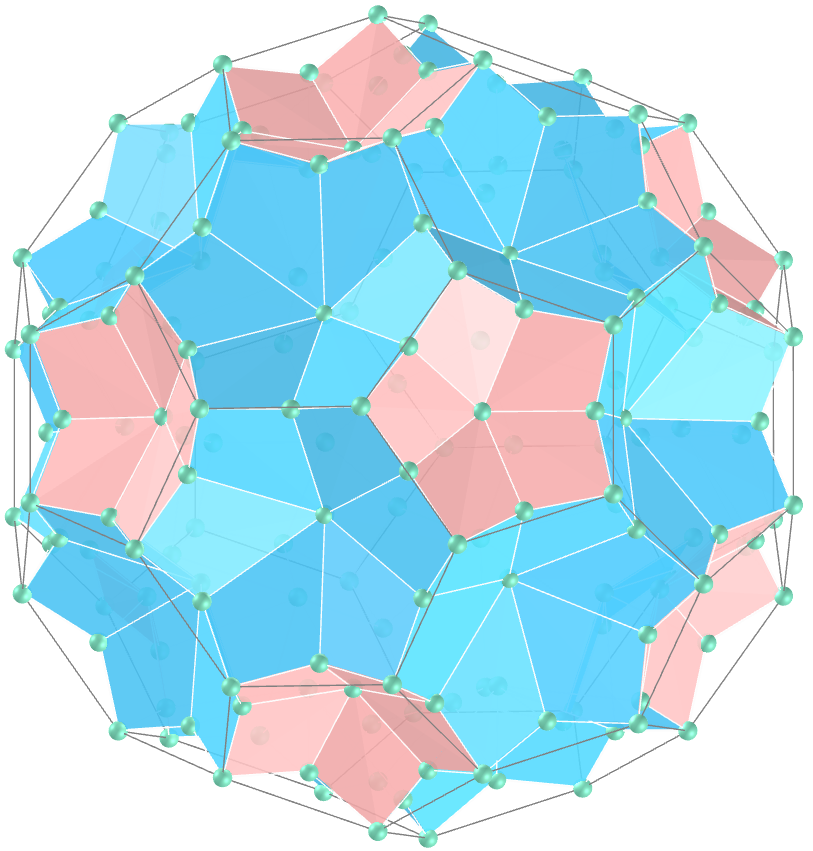
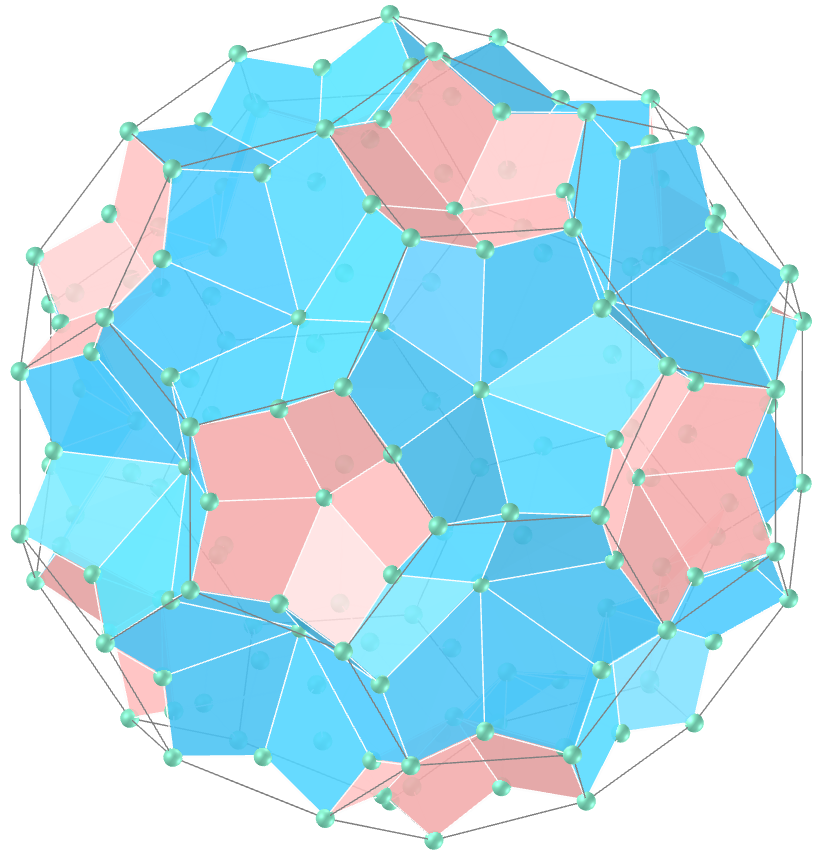
update

diff --git a/kites/vr/Truncated_Icosidodecahedron.htm b/kites/vr/Truncated_Icosidodecahedron.htm
@@ -158,7 +158,7 @@
 			<a-sphere mixin='esfera' position='1.99040213 1.31600213 2.407204259'></a-sphere>
 			<a-sphere mixin='esfera' position='1.262934043 1.31600213 2.856804259'></a-sphere>
 			<a-sphere mixin='esfera' position='0.6744 0.813334043 3.220538302'></a-sphere>
-			<a-sphere mixin='esfera' position='0.841373807 -0 1.36137142'></a-sphere>
+			<a-sphere mixin='esfera' position='0.8321441147 -0 1.3464374641'></a-sphere>
 			<a-sphere mixin='esfera' position='0.6744 0.813334043 3.220538302'></a-sphere>
 			<a-sphere mixin='esfera' position='0.6744 1.54080213 2.942670216'></a-sphere>
 			<a-sphere mixin='esfera' position='0 1.904536173 2.803736173'></a-sphere>
@@ -181,7 +181,7 @@
 			<a-sphere mixin='esfera' position='1.262934043 -1.31600213 -2.856804259'></a-sphere>
 			<a-sphere mixin='esfera' position='0.6744 -0.813334043 -3.220538302'></a-sphere>
 			<a-sphere mixin='esfera' position='0.4496 0 -3.359472346'></a-sphere>
-			<a-sphere mixin='esfera' position='0.841373807 0 -1.36137142'></a-sphere>
+			<a-sphere mixin='esfera' position='0.8321441147 0 -1.3464374641'></a-sphere>
 			<a-sphere mixin='esfera' position='0 0.4496 -3.359472346'></a-sphere>
 			<a-sphere mixin='esfera' position='-0.6744 0.813334043 -3.220538302'></a-sphere>
 			<a-sphere mixin='esfera' position='-0.6744 1.54080213 -2.942670216'></a-sphere>
@@ -209,7 +209,7 @@
 			<a-sphere mixin='esfera' position='-1.262934043 -1.31600213 2.856804259'></a-sphere>
 			<a-sphere mixin='esfera' position='-0.6744 -0.813334043 3.220538302'></a-sphere>
 			<a-sphere mixin='esfera' position='-0.4496 0 3.359472346'></a-sphere>
-			<a-sphere mixin='esfera' position='-0.841373807 0 1.36137142'></a-sphere>
+			<a-sphere mixin='esfera' position='-0.8321441147 0 1.3464374641'></a-sphere>
 			<a-sphere mixin='esfera' position='-0.4496 0 -3.359472346'></a-sphere>
 			<a-sphere mixin='esfera' position='-0.6744 -0.813334043 -3.220538302'></a-sphere>
 			<a-sphere mixin='esfera' position='-1.262934043 -1.31600213 -2.856804259'></a-sphere>
@@ -220,7 +220,7 @@
 			<a-sphere mixin='esfera' position='-1.99040213 1.31600213 -2.407204259'></a-sphere>
 			<a-sphere mixin='esfera' position='-1.262934043 1.31600213 -2.856804259'></a-sphere>
 			<a-sphere mixin='esfera' position='-0.6744 0.813334043 -3.220538302'></a-sphere>
-			<a-sphere mixin='esfera' position='-0.841373807 -0 -1.36137142'></a-sphere>
+			<a-sphere mixin='esfera' position='-0.8321441147 -0 -1.3464374641'></a-sphere>
 			<a-sphere mixin='esfera' position='3.359472346 0.4496 0'></a-sphere>
 			<a-sphere mixin='esfera' position='3.220538302 0.6744 -0.813334043'></a-sphere>
 			<a-sphere mixin='esfera' position='2.856804259 1.262934043 -1.31600213'></a-sphere>
@@ -231,7 +231,7 @@
 			<a-sphere mixin='esfera' position='2.407204259 1.99040213 1.31600213'></a-sphere>
 			<a-sphere mixin='esfera' position='2.856804259 1.262934043 1.31600213'></a-sphere>
 			<a-sphere mixin='esfera' position='3.220538302 0.6744 0.813334043'></a-sphere>
-			<a-sphere mixin='esfera' position='1.36137142 0.841373807 -0'></a-sphere>
+			<a-sphere mixin='esfera' position='1.3464374641 0.8321441147 -0'></a-sphere>
 			<a-sphere mixin='esfera' position='3.220538302 -0.6744 0.813334043'></a-sphere>
 			<a-sphere mixin='esfera' position='2.856804259 -1.262934043 1.31600213'></a-sphere>
 			<a-sphere mixin='esfera' position='2.407204259 -1.99040213 1.31600213'></a-sphere>
@@ -242,7 +242,7 @@
 			<a-sphere mixin='esfera' position='2.856804259 -1.262934043 -1.31600213'></a-sphere>
 			<a-sphere mixin='esfera' position='3.220538302 -0.6744 -0.813334043'></a-sphere>
 			<a-sphere mixin='esfera' position='3.359472346 -0.4496 0'></a-sphere>
-			<a-sphere mixin='esfera' position='1.36137142 -0.841373807 0'></a-sphere>
+			<a-sphere mixin='esfera' position='1.3464374641 -0.8321441147 0'></a-sphere>
 			<a-sphere mixin='esfera' position='-3.220538302 0.6744 0.813334043'></a-sphere>
 			<a-sphere mixin='esfera' position='-2.856804259 1.262934043 1.31600213'></a-sphere>
 			<a-sphere mixin='esfera' position='-2.407204259 1.99040213 1.31600213'></a-sphere>
@@ -253,7 +253,7 @@
 			<a-sphere mixin='esfera' position='-2.856804259 1.262934043 -1.31600213'></a-sphere>
 			<a-sphere mixin='esfera' position='-3.220538302 0.6744 -0.813334043'></a-sphere>
 			<a-sphere mixin='esfera' position='-3.359472346 0.4496 0'></a-sphere>
-			<a-sphere mixin='esfera' position='-1.36137142 0.841373807 0'></a-sphere>
+			<a-sphere mixin='esfera' position='-1.3464374641 0.8321441147 0'></a-sphere>
 			<a-sphere mixin='esfera' position='-3.359472346 -0.4496 0'></a-sphere>
 			<a-sphere mixin='esfera' position='-3.220538302 -0.6744 -0.813334043'></a-sphere>
 			<a-sphere mixin='esfera' position='-2.856804259 -1.262934043 -1.31600213'></a-sphere>
@@ -264,7 +264,7 @@
 			<a-sphere mixin='esfera' position='-2.407204259 -1.99040213 1.31600213'></a-sphere>
 			<a-sphere mixin='esfera' position='-2.856804259 -1.262934043 1.31600213'></a-sphere>
 			<a-sphere mixin='esfera' position='-3.220538302 -0.6744 0.813334043'></a-sphere>
-			<a-sphere mixin='esfera' position='-1.36137142 -0.841373807 -0'></a-sphere>
+			<a-sphere mixin='esfera' position='-1.3464374641 -0.8321441147 -0'></a-sphere>
 			<a-sphere mixin='esfera' position='0 3.359472346 0.4496'></a-sphere>
 			<a-sphere mixin='esfera' position='-0.813334043 3.220538302 0.6744'></a-sphere>
 			<a-sphere mixin='esfera' position='-1.31600213 2.856804259 1.262934043'></a-sphere>
@@ -275,7 +275,7 @@
 			<a-sphere mixin='esfera' position='1.31600213 2.407204259 1.99040213'></a-sphere>
 			<a-sphere mixin='esfera' position='1.31600213 2.856804259 1.262934043'></a-sphere>
 			<a-sphere mixin='esfera' position='0.813334043 3.220538302 0.6744'></a-sphere>
-			<a-sphere mixin='esfera' position='-0 1.36137142 0.841373807'></a-sphere>
+			<a-sphere mixin='esfera' position='-0 1.3464374641 0.8321441147'></a-sphere>
 			<a-sphere mixin='esfera' position='0.813334043 3.220538302 -0.6744'></a-sphere>
 			<a-sphere mixin='esfera' position='1.31600213 2.856804259 -1.262934043'></a-sphere>
 			<a-sphere mixin='esfera' position='1.31600213 2.407204259 -1.99040213'></a-sphere>
@@ -286,7 +286,7 @@
 			<a-sphere mixin='esfera' position='-1.31600213 2.856804259 -1.262934043'></a-sphere>
 			<a-sphere mixin='esfera' position='-0.813334043 3.220538302 -0.6744'></a-sphere>
 			<a-sphere mixin='esfera' position='0 3.359472346 -0.4496'></a-sphere>
-			<a-sphere mixin='esfera' position='0 1.36137142 -0.841373807'></a-sphere>
+			<a-sphere mixin='esfera' position='0 1.3464374641 -0.8321441147'></a-sphere>
 			<a-sphere mixin='esfera' position='0.813334043 -3.220538302 0.6744'></a-sphere>
 			<a-sphere mixin='esfera' position='1.31600213 -2.856804259 1.262934043'></a-sphere>
 			<a-sphere mixin='esfera' position='1.31600213 -2.407204259 1.99040213'></a-sphere>
@@ -297,7 +297,7 @@
 			<a-sphere mixin='esfera' position='-1.31600213 -2.856804259 1.262934043'></a-sphere>
 			<a-sphere mixin='esfera' position='-0.813334043 -3.220538302 0.6744'></a-sphere>
 			<a-sphere mixin='esfera' position='0 -3.359472346 0.4496'></a-sphere>
-			<a-sphere mixin='esfera' position='0 -1.36137142 0.841373807'></a-sphere>
+			<a-sphere mixin='esfera' position='0 -1.3464374641 0.8321441147'></a-sphere>
 			<a-sphere mixin='esfera' position='0 -3.359472346 -0.4496'></a-sphere>
 			<a-sphere mixin='esfera' position='-0.813334043 -3.220538302 -0.6744'></a-sphere>
 			<a-sphere mixin='esfera' position='-1.31600213 -2.856804259 -1.262934043'></a-sphere>
@@ -308,7 +308,7 @@
 			<a-sphere mixin='esfera' position='1.31600213 -2.407204259 -1.99040213'></a-sphere>
 			<a-sphere mixin='esfera' position='1.31600213 -2.856804259 -1.262934043'></a-sphere>
 			<a-sphere mixin='esfera' position='0.813334043 -3.220538302 -0.6744'></a-sphere>
-			<a-sphere mixin='esfera' position='-0 -1.36137142 -0.841373807'></a-sphere>
+			<a-sphere mixin='esfera' position='-0 -1.3464374641 -0.8321441147'></a-sphere>
 			<a-sphere mixin='esfera' position='0 -0.4496 3.359472346'></a-sphere>
 			<a-sphere mixin='esfera' position='-0.6744 -0.813334043 3.220538302'></a-sphere>
 			<a-sphere mixin='esfera' position='-0.6744 -1.54080213 2.942670216'></a-sphere>
@@ -385,56 +385,56 @@
 			<a-sphere mixin='esfera' position='1.818670216 2.493070216 1.401868086'></a-sphere>
 			<a-sphere mixin='esfera' position='1.31600213 2.407204259 1.99040213'></a-sphere>
 			<a-sphere mixin='esfera' position='1.401868086 1.818670216 2.493070216'></a-sphere>
-			<a-sphere mixin='esfera' position='1.471610023 1.471610023 1.471610023'></a-sphere>
+			<a-sphere mixin='esfera' position='1.462328143 1.462328143 1.462328143'></a-sphere>
 			<a-sphere mixin='esfera' position='1.401868086 1.818670216 -2.493070216'></a-sphere>
 			<a-sphere mixin='esfera' position='1.31600213 2.407204259 -1.99040213'></a-sphere>
 			<a-sphere mixin='esfera' position='1.818670216 2.493070216 -1.401868086'></a-sphere>
 			<a-sphere mixin='esfera' position='2.407204259 1.99040213 -1.31600213'></a-sphere>
 			<a-sphere mixin='esfera' position='2.493070216 1.401868086 -1.818670216'></a-sphere>
 			<a-sphere mixin='esfera' position='1.99040213 1.31600213 -2.407204259'></a-sphere>
-			<a-sphere mixin='esfera' position='1.471610023 1.471610023 -1.471610023'></a-sphere>
+			<a-sphere mixin='esfera' position='1.462328143 1.462328143 -1.462328143'></a-sphere>
 			<a-sphere mixin='esfera' position='1.401868086 -1.818670216 2.493070216'></a-sphere>
 			<a-sphere mixin='esfera' position='1.31600213 -2.407204259 1.99040213'></a-sphere>
 			<a-sphere mixin='esfera' position='1.818670216 -2.493070216 1.401868086'></a-sphere>
 			<a-sphere mixin='esfera' position='2.407204259 -1.99040213 1.31600213'></a-sphere>
 			<a-sphere mixin='esfera' position='2.493070216 -1.401868086 1.818670216'></a-sphere>
 			<a-sphere mixin='esfera' position='1.99040213 -1.31600213 2.407204259'></a-sphere>
-			<a-sphere mixin='esfera' position='1.471610023 -1.471610023 1.471610023'></a-sphere>
+			<a-sphere mixin='esfera' position='1.462328143 -1.462328143 1.462328143'></a-sphere>
 			<a-sphere mixin='esfera' position='1.99040213 -1.31600213 -2.407204259'></a-sphere>
 			<a-sphere mixin='esfera' position='2.493070216 -1.401868086 -1.818670216'></a-sphere>
 			<a-sphere mixin='esfera' position='2.407204259 -1.99040213 -1.31600213'></a-sphere>
 			<a-sphere mixin='esfera' position='1.818670216 -2.493070216 -1.401868086'></a-sphere>
 			<a-sphere mixin='esfera' position='1.31600213 -2.407204259 -1.99040213'></a-sphere>
 			<a-sphere mixin='esfera' position='1.401868086 -1.818670216 -2.493070216'></a-sphere>
-			<a-sphere mixin='esfera' position='1.471610023 -1.471610023 -1.471610023'></a-sphere>
+			<a-sphere mixin='esfera' position='1.462328143 -1.462328143 -1.462328143'></a-sphere>
 			<a-sphere mixin='esfera' position='-1.401868086 1.818670216 2.493070216'></a-sphere>
 			<a-sphere mixin='esfera' position='-1.31600213 2.407204259 1.99040213'></a-sphere>
 			<a-sphere mixin='esfera' position='-1.818670216 2.493070216 1.401868086'></a-sphere>
 			<a-sphere mixin='esfera' position='-2.407204259 1.99040213 1.31600213'></a-sphere>
 			<a-sphere mixin='esfera' position='-2.493070216 1.401868086 1.818670216'></a-sphere>
 			<a-sphere mixin='esfera' position='-1.99040213 1.31600213 2.407204259'></a-sphere>
-			<a-sphere mixin='esfera' position='-1.471610023 1.471610023 1.471610023'></a-sphere>
+			<a-sphere mixin='esfera' position='-1.462328143 1.462328143 1.462328143'></a-sphere>
 			<a-sphere mixin='esfera' position='-1.99040213 1.31600213 -2.407204259'></a-sphere>
 			<a-sphere mixin='esfera' position='-2.493070216 1.401868086 -1.818670216'></a-sphere>
 			<a-sphere mixin='esfera' position='-2.407204259 1.99040213 -1.31600213'></a-sphere>
 			<a-sphere mixin='esfera' position='-1.818670216 2.493070216 -1.401868086'></a-sphere>
 			<a-sphere mixin='esfera' position='-1.31600213 2.407204259 -1.99040213'></a-sphere>
 			<a-sphere mixin='esfera' position='-1.401868086 1.818670216 -2.493070216'></a-sphere>
-			<a-sphere mixin='esfera' position='-1.471610023 1.471610023 -1.471610023'></a-sphere>
+			<a-sphere mixin='esfera' position='-1.462328143 1.462328143 -1.462328143'></a-sphere>
 			<a-sphere mixin='esfera' position='-1.99040213 -1.31600213 2.407204259'></a-sphere>
 			<a-sphere mixin='esfera' position='-2.493070216 -1.401868086 1.818670216'></a-sphere>
 			<a-sphere mixin='esfera' position='-2.407204259 -1.99040213 1.31600213'></a-sphere>
 			<a-sphere mixin='esfera' position='-1.818670216 -2.493070216 1.401868086'></a-sphere>
 			<a-sphere mixin='esfera' position='-1.31600213 -2.407204259 1.99040213'></a-sphere>
 			<a-sphere mixin='esfera' position='-1.401868086 -1.818670216 2.493070216'></a-sphere>
-			<a-sphere mixin='esfera' position='-1.471610023 -1.471610023 1.471610023'></a-sphere>
+			<a-sphere mixin='esfera' position='-1.462328143 -1.462328143 1.462328143'></a-sphere>
 			<a-sphere mixin='esfera' position='-1.401868086 -1.818670216 -2.493070216'></a-sphere>
 			<a-sphere mixin='esfera' position='-1.31600213 -2.407204259 -1.99040213'></a-sphere>
 			<a-sphere mixin='esfera' position='-1.818670216 -2.493070216 -1.401868086'></a-sphere>
 			<a-sphere mixin='esfera' position='-2.407204259 -1.99040213 -1.31600213'></a-sphere>
 			<a-sphere mixin='esfera' position='-2.493070216 -1.401868086 -1.818670216'></a-sphere>
 			<a-sphere mixin='esfera' position='-1.99040213 -1.31600213 -2.407204259'></a-sphere>
-			<a-sphere mixin='esfera' position='-1.471610023 -1.471610023 -1.471610023'></a-sphere>
+			<a-sphere mixin='esfera' position='-1.462328143 -1.462328143 -1.462328143'></a-sphere>
 			<a-sphere mixin='esfera' position='-3.359472346 0.4496 0'></a-sphere>
 			<a-sphere mixin='esfera' position='-3.359472346 0 -0.4496'></a-sphere>
 			<a-sphere mixin='esfera' position='-3.359472346 -0.4496 0'></a-sphere>
@@ -454,122 +454,122 @@
 			<a-sphere mixin='esfera' position='1.401868086 1.818670216 2.493070216'></a-sphere>
 			<a-sphere mixin='esfera' position='0.813334043 2.043470216 2.578936173'></a-sphere>
 			<a-sphere mixin='esfera' position='0.6744 1.54080213 2.942670216'></a-sphere>
-			<a-sphere mixin='esfera' position='0.944618855 1.528425419 2.473044274'></a-sphere>
+			<a-sphere mixin='esfera' position='0.9430723507 1.5259231224 2.4689954731'></a-sphere>
 			<a-sphere mixin='esfera' position='0.6744 1.54080213 -2.942670216'></a-sphere>
 			<a-sphere mixin='esfera' position='0.813334043 2.043470216 -2.578936173'></a-sphere>
 			<a-sphere mixin='esfera' position='1.401868086 1.818670216 -2.493070216'></a-sphere>
 			<a-sphere mixin='esfera' position='1.262934043 1.31600213 -2.856804259'></a-sphere>
-			<a-sphere mixin='esfera' position='0.944618855 1.528425419 -2.473044274'></a-sphere>
+			<a-sphere mixin='esfera' position='0.9430723507 1.5259231224 -2.4689954731'></a-sphere>
 			<a-sphere mixin='esfera' position='0.6744 -1.54080213 2.942670216'></a-sphere>
 			<a-sphere mixin='esfera' position='0.813334043 -2.043470216 2.578936173'></a-sphere>
 			<a-sphere mixin='esfera' position='1.401868086 -1.818670216 2.493070216'></a-sphere>
 			<a-sphere mixin='esfera' position='1.262934043 -1.31600213 2.856804259'></a-sphere>
-			<a-sphere mixin='esfera' position='0.944618855 -1.528425419 2.473044274'></a-sphere>
+			<a-sphere mixin='esfera' position='0.9430723507 -1.5259231224 2.4689954731'></a-sphere>
 			<a-sphere mixin='esfera' position='1.262934043 -1.31600213 -2.856804259'></a-sphere>
 			<a-sphere mixin='esfera' position='1.401868086 -1.818670216 -2.493070216'></a-sphere>
 			<a-sphere mixin='esfera' position='0.813334043 -2.043470216 -2.578936173'></a-sphere>
 			<a-sphere mixin='esfera' position='0.6744 -1.54080213 -2.942670216'></a-sphere>
-			<a-sphere mixin='esfera' position='0.944618855 -1.528425419 -2.473044274'></a-sphere>
+			<a-sphere mixin='esfera' position='0.9430723507 -1.5259231224 -2.4689954731'></a-sphere>
 			<a-sphere mixin='esfera' position='-0.6744 1.54080213 2.942670216'></a-sphere>
 			<a-sphere mixin='esfera' position='-0.813334043 2.043470216 2.578936173'></a-sphere>
 			<a-sphere mixin='esfera' position='-1.401868086 1.818670216 2.493070216'></a-sphere>
 			<a-sphere mixin='esfera' position='-1.262934043 1.31600213 2.856804259'></a-sphere>
-			<a-sphere mixin='esfera' position='-0.944618855 1.528425419 2.473044274'></a-sphere>
+			<a-sphere mixin='esfera' position='-0.9430723507 1.5259231224 2.4689954731'></a-sphere>
 			<a-sphere mixin='esfera' position='-1.262934043 1.31600213 -2.856804259'></a-sphere>
 			<a-sphere mixin='esfera' position='-1.401868086 1.818670216 -2.493070216'></a-sphere>
 			<a-sphere mixin='esfera' position='-0.813334043 2.043470216 -2.578936173'></a-sphere>
 			<a-sphere mixin='esfera' position='-0.6744 1.54080213 -2.942670216'></a-sphere>
-			<a-sphere mixin='esfera' position='-0.944618855 1.528425419 -2.473044274'></a-sphere>
+			<a-sphere mixin='esfera' position='-0.9430723507 1.5259231224 -2.4689954731'></a-sphere>
 			<a-sphere mixin='esfera' position='-1.262934043 -1.31600213 2.856804259'></a-sphere>
 			<a-sphere mixin='esfera' position='-1.401868086 -1.818670216 2.493070216'></a-sphere>
 			<a-sphere mixin='esfera' position='-0.813334043 -2.043470216 2.578936173'></a-sphere>
 			<a-sphere mixin='esfera' position='-0.6744 -1.54080213 2.942670216'></a-sphere>
-			<a-sphere mixin='esfera' position='-0.944618855 -1.528425419 2.473044274'></a-sphere>
+			<a-sphere mixin='esfera' position='-0.9430723507 -1.5259231224 2.4689954731'></a-sphere>
 			<a-sphere mixin='esfera' position='-0.6744 -1.54080213 -2.942670216'></a-sphere>
 			<a-sphere mixin='esfera' position='-0.813334043 -2.043470216 -2.578936173'></a-sphere>
 			<a-sphere mixin='esfera' position='-1.401868086 -1.818670216 -2.493070216'></a-sphere>
 			<a-sphere mixin='esfera' position='-1.262934043 -1.31600213 -2.856804259'></a-sphere>
-			<a-sphere mixin='esfera' position='-0.944618855 -1.528425419 -2.473044274'></a-sphere>
+			<a-sphere mixin='esfera' position='-0.9430723507 -1.5259231224 -2.4689954731'></a-sphere>
 			<a-sphere mixin='esfera' position='2.856804259 1.262934043 1.31600213'></a-sphere>
 			<a-sphere mixin='esfera' position='2.493070216 1.401868086 1.818670216'></a-sphere>
 			<a-sphere mixin='esfera' position='2.578936173 0.813334043 2.043470216'></a-sphere>
 			<a-sphere mixin='esfera' position='2.942670216 0.6744 1.54080213'></a-sphere>
-			<a-sphere mixin='esfera' position='2.473044274 0.944618855 1.528425419'></a-sphere>
+			<a-sphere mixin='esfera' position='2.4689954731 0.9430723507 1.5259231224'></a-sphere>
 			<a-sphere mixin='esfera' position='2.942670216 0.6744 -1.54080213'></a-sphere>
 			<a-sphere mixin='esfera' position='2.578936173 0.813334043 -2.043470216'></a-sphere>
 			<a-sphere mixin='esfera' position='2.493070216 1.401868086 -1.818670216'></a-sphere>
 			<a-sphere mixin='esfera' position='2.856804259 1.262934043 -1.31600213'></a-sphere>
-			<a-sphere mixin='esfera' position='2.473044274 0.944618855 -1.528425419'></a-sphere>
+			<a-sphere mixin='esfera' position='2.4689954731 0.9430723507 -1.5259231224'></a-sphere>
 			<a-sphere mixin='esfera' position='2.942670216 -0.6744 1.54080213'></a-sphere>
 			<a-sphere mixin='esfera' position='2.578936173 -0.813334043 2.043470216'></a-sphere>
 			<a-sphere mixin='esfera' position='2.493070216 -1.401868086 1.818670216'></a-sphere>
 			<a-sphere mixin='esfera' position='2.856804259 -1.262934043 1.31600213'></a-sphere>
-			<a-sphere mixin='esfera' position='2.473044274 -0.944618855 1.528425419'></a-sphere>
+			<a-sphere mixin='esfera' position='2.4689954731 -0.9430723507 1.5259231224'></a-sphere>
 			<a-sphere mixin='esfera' position='2.856804259 -1.262934043 -1.31600213'></a-sphere>
 			<a-sphere mixin='esfera' position='2.493070216 -1.401868086 -1.818670216'></a-sphere>
 			<a-sphere mixin='esfera' position='2.578936173 -0.813334043 -2.043470216'></a-sphere>
 			<a-sphere mixin='esfera' position='2.942670216 -0.6744 -1.54080213'></a-sphere>
-			<a-sphere mixin='esfera' position='2.473044274 -0.944618855 -1.528425419'></a-sphere>
+			<a-sphere mixin='esfera' position='2.4689954731 -0.9430723507 -1.5259231224'></a-sphere>
 			<a-sphere mixin='esfera' position='-2.942670216 0.6744 1.54080213'></a-sphere>
 			<a-sphere mixin='esfera' position='-2.578936173 0.813334043 2.043470216'></a-sphere>
 			<a-sphere mixin='esfera' position='-2.493070216 1.401868086 1.818670216'></a-sphere>
 			<a-sphere mixin='esfera' position='-2.856804259 1.262934043 1.31600213'></a-sphere>
-			<a-sphere mixin='esfera' position='-2.473044274 0.944618855 1.528425419'></a-sphere>
+			<a-sphere mixin='esfera' position='-2.4689954731 0.9430723507 1.5259231224'></a-sphere>
 			<a-sphere mixin='esfera' position='-2.856804259 1.262934043 -1.31600213'></a-sphere>
 			<a-sphere mixin='esfera' position='-2.493070216 1.401868086 -1.818670216'></a-sphere>
 			<a-sphere mixin='esfera' position='-2.578936173 0.813334043 -2.043470216'></a-sphere>
 			<a-sphere mixin='esfera' position='-2.942670216 0.6744 -1.54080213'></a-sphere>
-			<a-sphere mixin='esfera' position='-2.473044274 0.944618855 -1.528425419'></a-sphere>
+			<a-sphere mixin='esfera' position='-2.4689954731 0.9430723507 -1.5259231224'></a-sphere>
 			<a-sphere mixin='esfera' position='-2.856804259 -1.262934043 1.31600213'></a-sphere>
 			<a-sphere mixin='esfera' position='-2.493070216 -1.401868086 1.818670216'></a-sphere>
 			<a-sphere mixin='esfera' position='-2.578936173 -0.813334043 2.043470216'></a-sphere>
 			<a-sphere mixin='esfera' position='-2.942670216 -0.6744 1.54080213'></a-sphere>
-			<a-sphere mixin='esfera' position='-2.473044274 -0.944618855 1.528425419'></a-sphere>
+			<a-sphere mixin='esfera' position='-2.4689954731 -0.9430723507 1.5259231224'></a-sphere>
 			<a-sphere mixin='esfera' position='-2.942670216 -0.6744 -1.54080213'></a-sphere>
 			<a-sphere mixin='esfera' position='-2.578936173 -0.813334043 -2.043470216'></a-sphere>
 			<a-sphere mixin='esfera' position='-2.493070216 -1.401868086 -1.818670216'></a-sphere>
 			<a-sphere mixin='esfera' position='-2.856804259 -1.262934043 -1.31600213'></a-sphere>
-			<a-sphere mixin='esfera' position='-2.473044274 -0.944618855 -1.528425419'></a-sphere>
+			<a-sphere mixin='esfera' position='-2.4689954731 -0.9430723507 -1.5259231224'></a-sphere>
 			<a-sphere mixin='esfera' position='1.31600213 2.856804259 1.262934043'></a-sphere>
 			<a-sphere mixin='esfera' position='1.818670216 2.493070216 1.401868086'></a-sphere>
 			<a-sphere mixin='esfera' position='2.043470216 2.578936173 0.813334043'></a-sphere>
 			<a-sphere mixin='esfera' position='1.54080213 2.942670216 0.6744'></a-sphere>
-			<a-sphere mixin='esfera' position='1.528425419 2.473044274 0.944618855'></a-sphere>
+			<a-sphere mixin='esfera' position='1.5259231224 2.4689954731 0.9430723507'></a-sphere>
 			<a-sphere mixin='esfera' position='1.54080213 2.942670216 -0.6744'></a-sphere>
 			<a-sphere mixin='esfera' position='2.043470216 2.578936173 -0.813334043'></a-sphere>
 			<a-sphere mixin='esfera' position='1.818670216 2.493070216 -1.401868086'></a-sphere>
 			<a-sphere mixin='esfera' position='1.31600213 2.856804259 -1.262934043'></a-sphere>
-			<a-sphere mixin='esfera' position='1.528425419 2.473044274 -0.944618855'></a-sphere>
+			<a-sphere mixin='esfera' position='1.5259231224 2.4689954731 -0.9430723507'></a-sphere>
 			<a-sphere mixin='esfera' position='1.54080213 -2.942670216 0.6744'></a-sphere>
 			<a-sphere mixin='esfera' position='2.043470216 -2.578936173 0.813334043'></a-sphere>
 			<a-sphere mixin='esfera' position='1.818670216 -2.493070216 1.401868086'></a-sphere>
 			<a-sphere mixin='esfera' position='1.31600213 -2.856804259 1.262934043'></a-sphere>
-			<a-sphere mixin='esfera' position='1.528425419 -2.473044274 0.944618855'></a-sphere>
+			<a-sphere mixin='esfera' position='1.5259231224 -2.4689954731 0.9430723507'></a-sphere>
 			<a-sphere mixin='esfera' position='1.31600213 -2.856804259 -1.262934043'></a-sphere>
 			<a-sphere mixin='esfera' position='1.818670216 -2.493070216 -1.401868086'></a-sphere>
 			<a-sphere mixin='esfera' position='2.043470216 -2.578936173 -0.813334043'></a-sphere>
 			<a-sphere mixin='esfera' position='1.54080213 -2.942670216 -0.6744'></a-sphere>
-			<a-sphere mixin='esfera' position='1.528425419 -2.473044274 -0.944618855'></a-sphere>
+			<a-sphere mixin='esfera' position='1.5259231224 -2.4689954731 -0.9430723507'></a-sphere>
 			<a-sphere mixin='esfera' position='-1.54080213 2.942670216 0.6744'></a-sphere>
 			<a-sphere mixin='esfera' position='-2.043470216 2.578936173 0.813334043'></a-sphere>
 			<a-sphere mixin='esfera' position='-1.818670216 2.493070216 1.401868086'></a-sphere>
 			<a-sphere mixin='esfera' position='-1.31600213 2.856804259 1.262934043'></a-sphere>
-			<a-sphere mixin='esfera' position='-1.528425419 2.473044274 0.944618855'></a-sphere>
+			<a-sphere mixin='esfera' position='-1.5259231224 2.4689954731 0.9430723507'></a-sphere>
 			<a-sphere mixin='esfera' position='-1.31600213 2.856804259 -1.262934043'></a-sphere>
 			<a-sphere mixin='esfera' position='-1.818670216 2.493070216 -1.401868086'></a-sphere>
 			<a-sphere mixin='esfera' position='-2.043470216 2.578936173 -0.813334043'></a-sphere>
 			<a-sphere mixin='esfera' position='-1.54080213 2.942670216 -0.6744'></a-sphere>
-			<a-sphere mixin='esfera' position='-1.528425419 2.473044274 -0.944618855'></a-sphere>
+			<a-sphere mixin='esfera' position='-1.5259231224 2.4689954731 -0.9430723507'></a-sphere>
 			<a-sphere mixin='esfera' position='-1.31600213 -2.856804259 1.262934043'></a-sphere>
 			<a-sphere mixin='esfera' position='-1.818670216 -2.493070216 1.401868086'></a-sphere>
 			<a-sphere mixin='esfera' position='-2.043470216 -2.578936173 0.813334043'></a-sphere>
 			<a-sphere mixin='esfera' position='-1.54080213 -2.942670216 0.6744'></a-sphere>
-			<a-sphere mixin='esfera' position='-1.528425419 -2.473044274 0.944618855'></a-sphere>
+			<a-sphere mixin='esfera' position='-1.5259231224 -2.4689954731 0.9430723507'></a-sphere>
 			<a-sphere mixin='esfera' position='-1.54080213 -2.942670216 -0.6744'></a-sphere>
 			<a-sphere mixin='esfera' position='-2.043470216 -2.578936173 -0.813334043'></a-sphere>
 			<a-sphere mixin='esfera' position='-1.818670216 -2.493070216 -1.401868086'></a-sphere>
 			<a-sphere mixin='esfera' position='-1.31600213 -2.856804259 -1.262934043'></a-sphere>
-			<a-sphere mixin='esfera' position='-1.528425419 -2.473044274 -0.944618855'></a-sphere>
+			<a-sphere mixin='esfera' position='-1.5259231224 -2.4689954731 -0.9430723507'></a-sphere>
 		</a-entity>
 		
 		<a-box mixin="piso" class="piso" visible="false" position="0 -1.5 0"></a-box>
